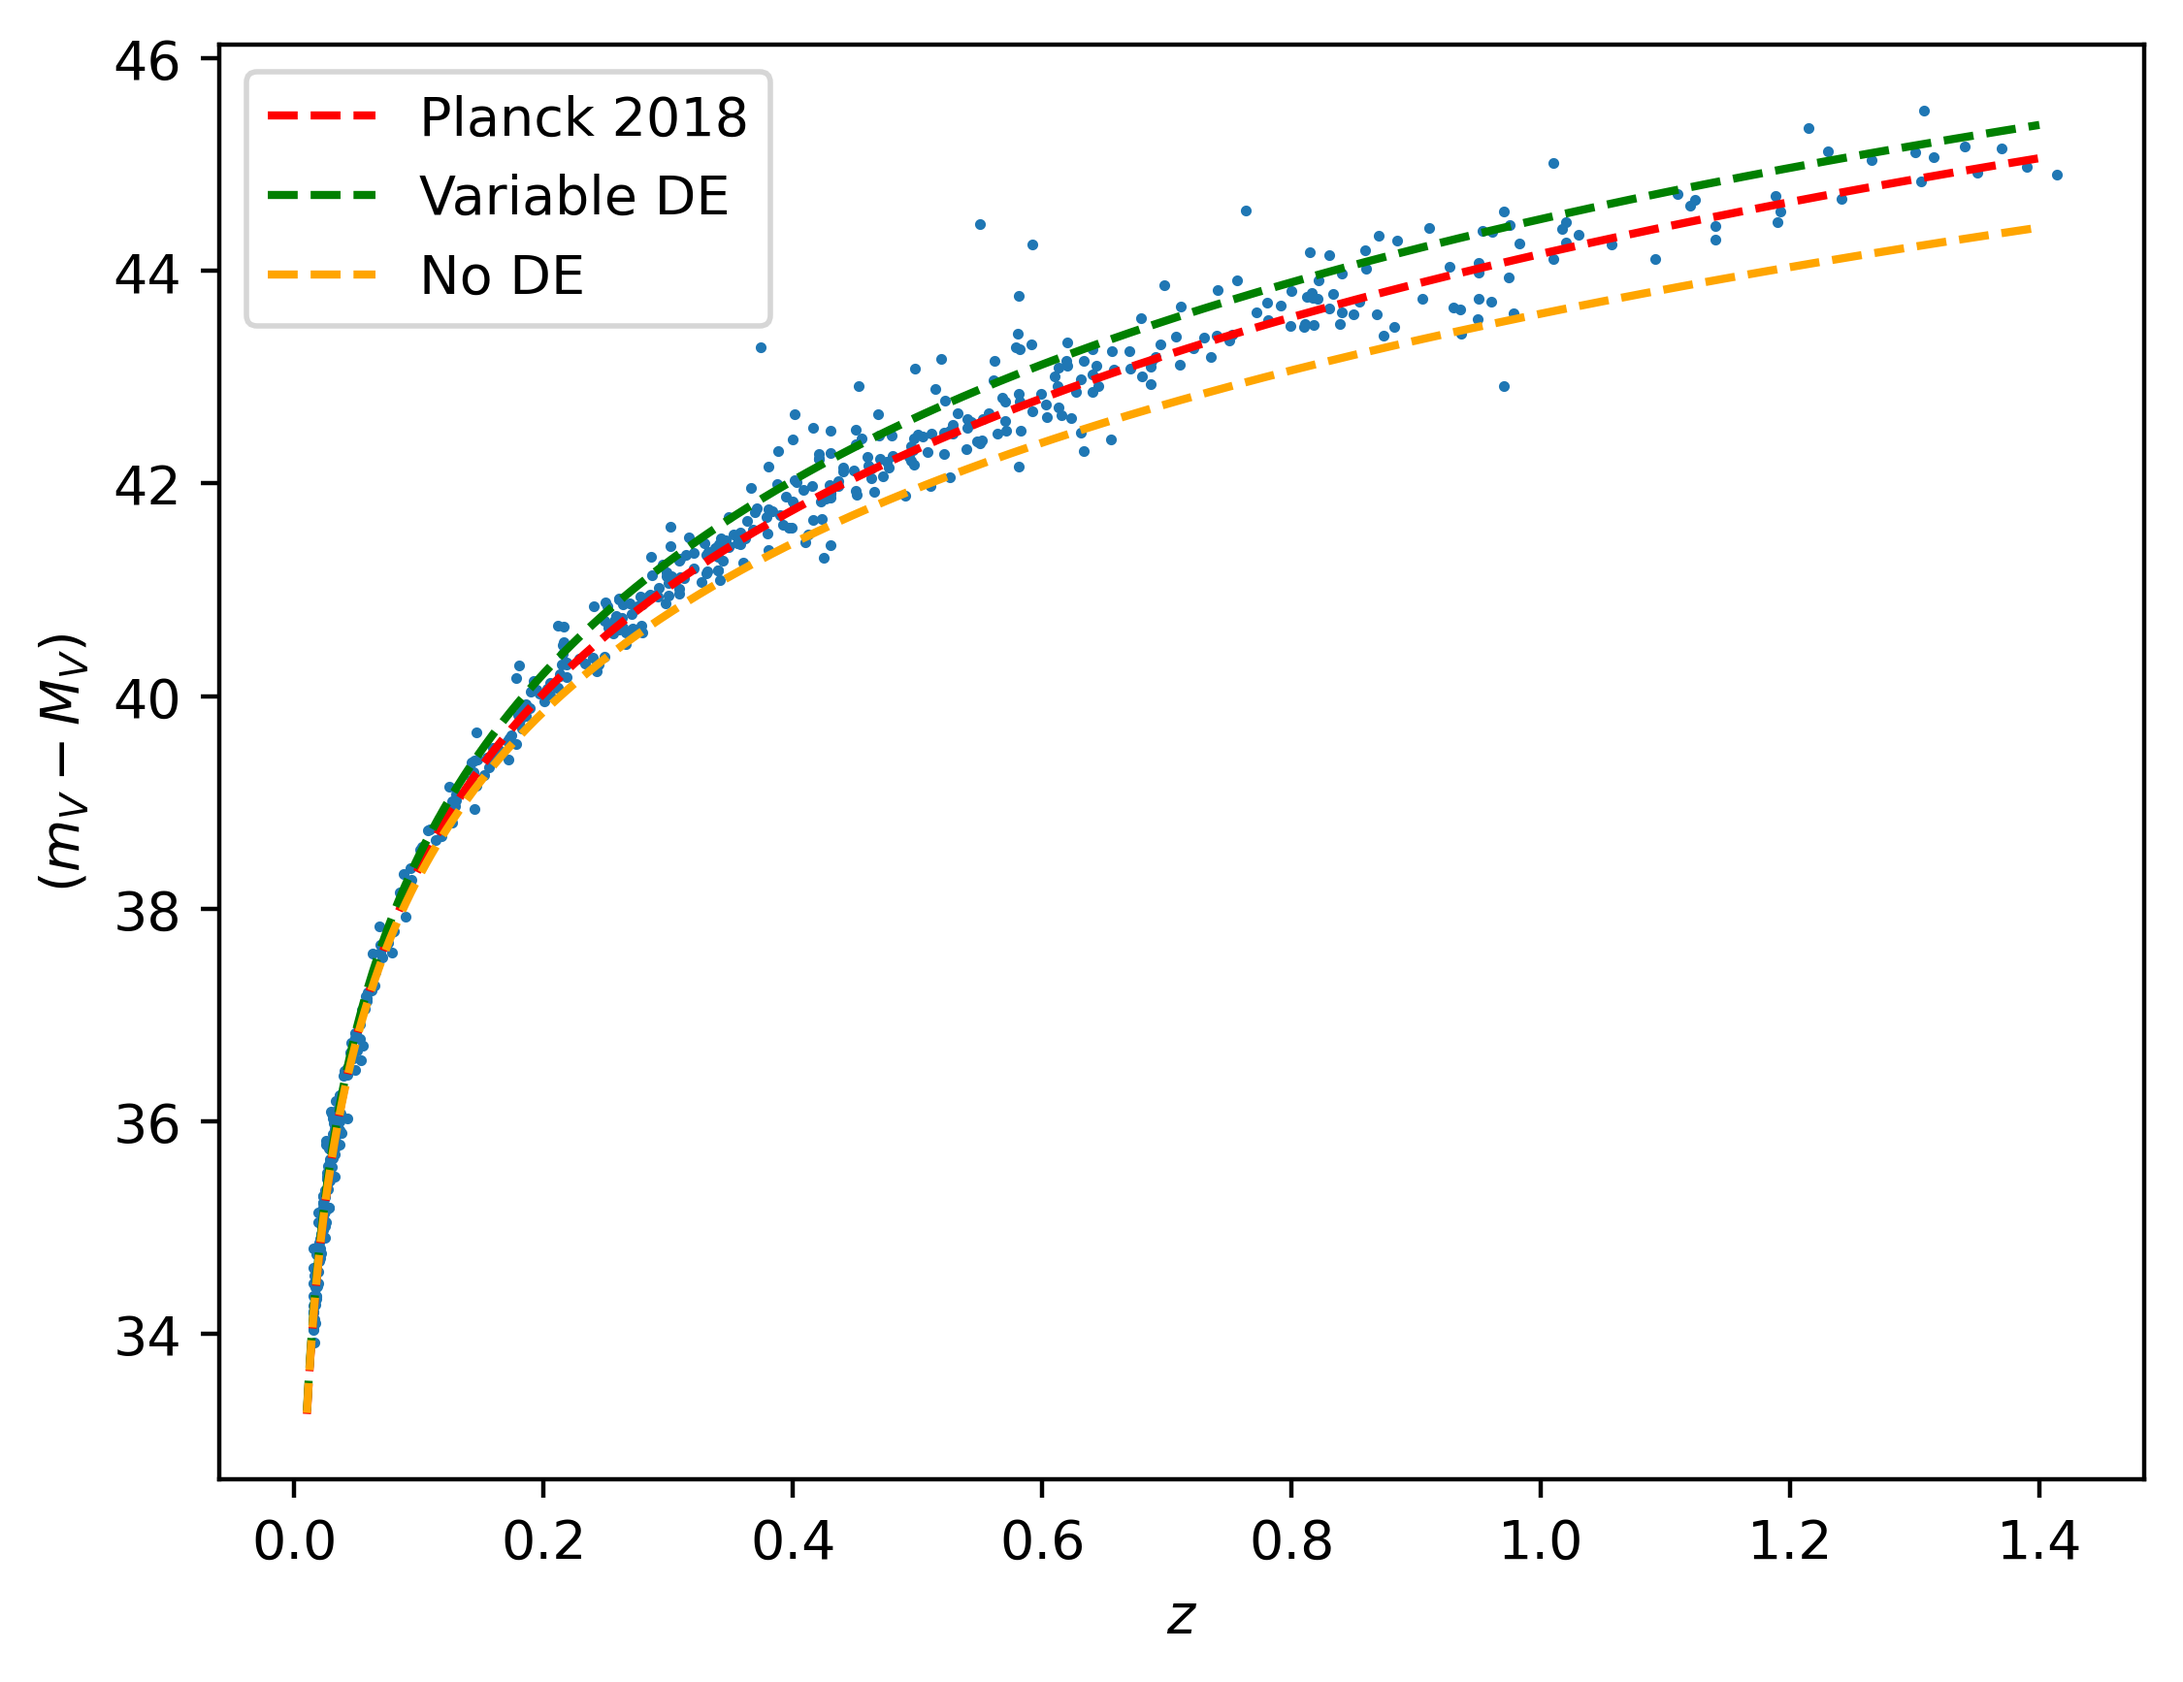
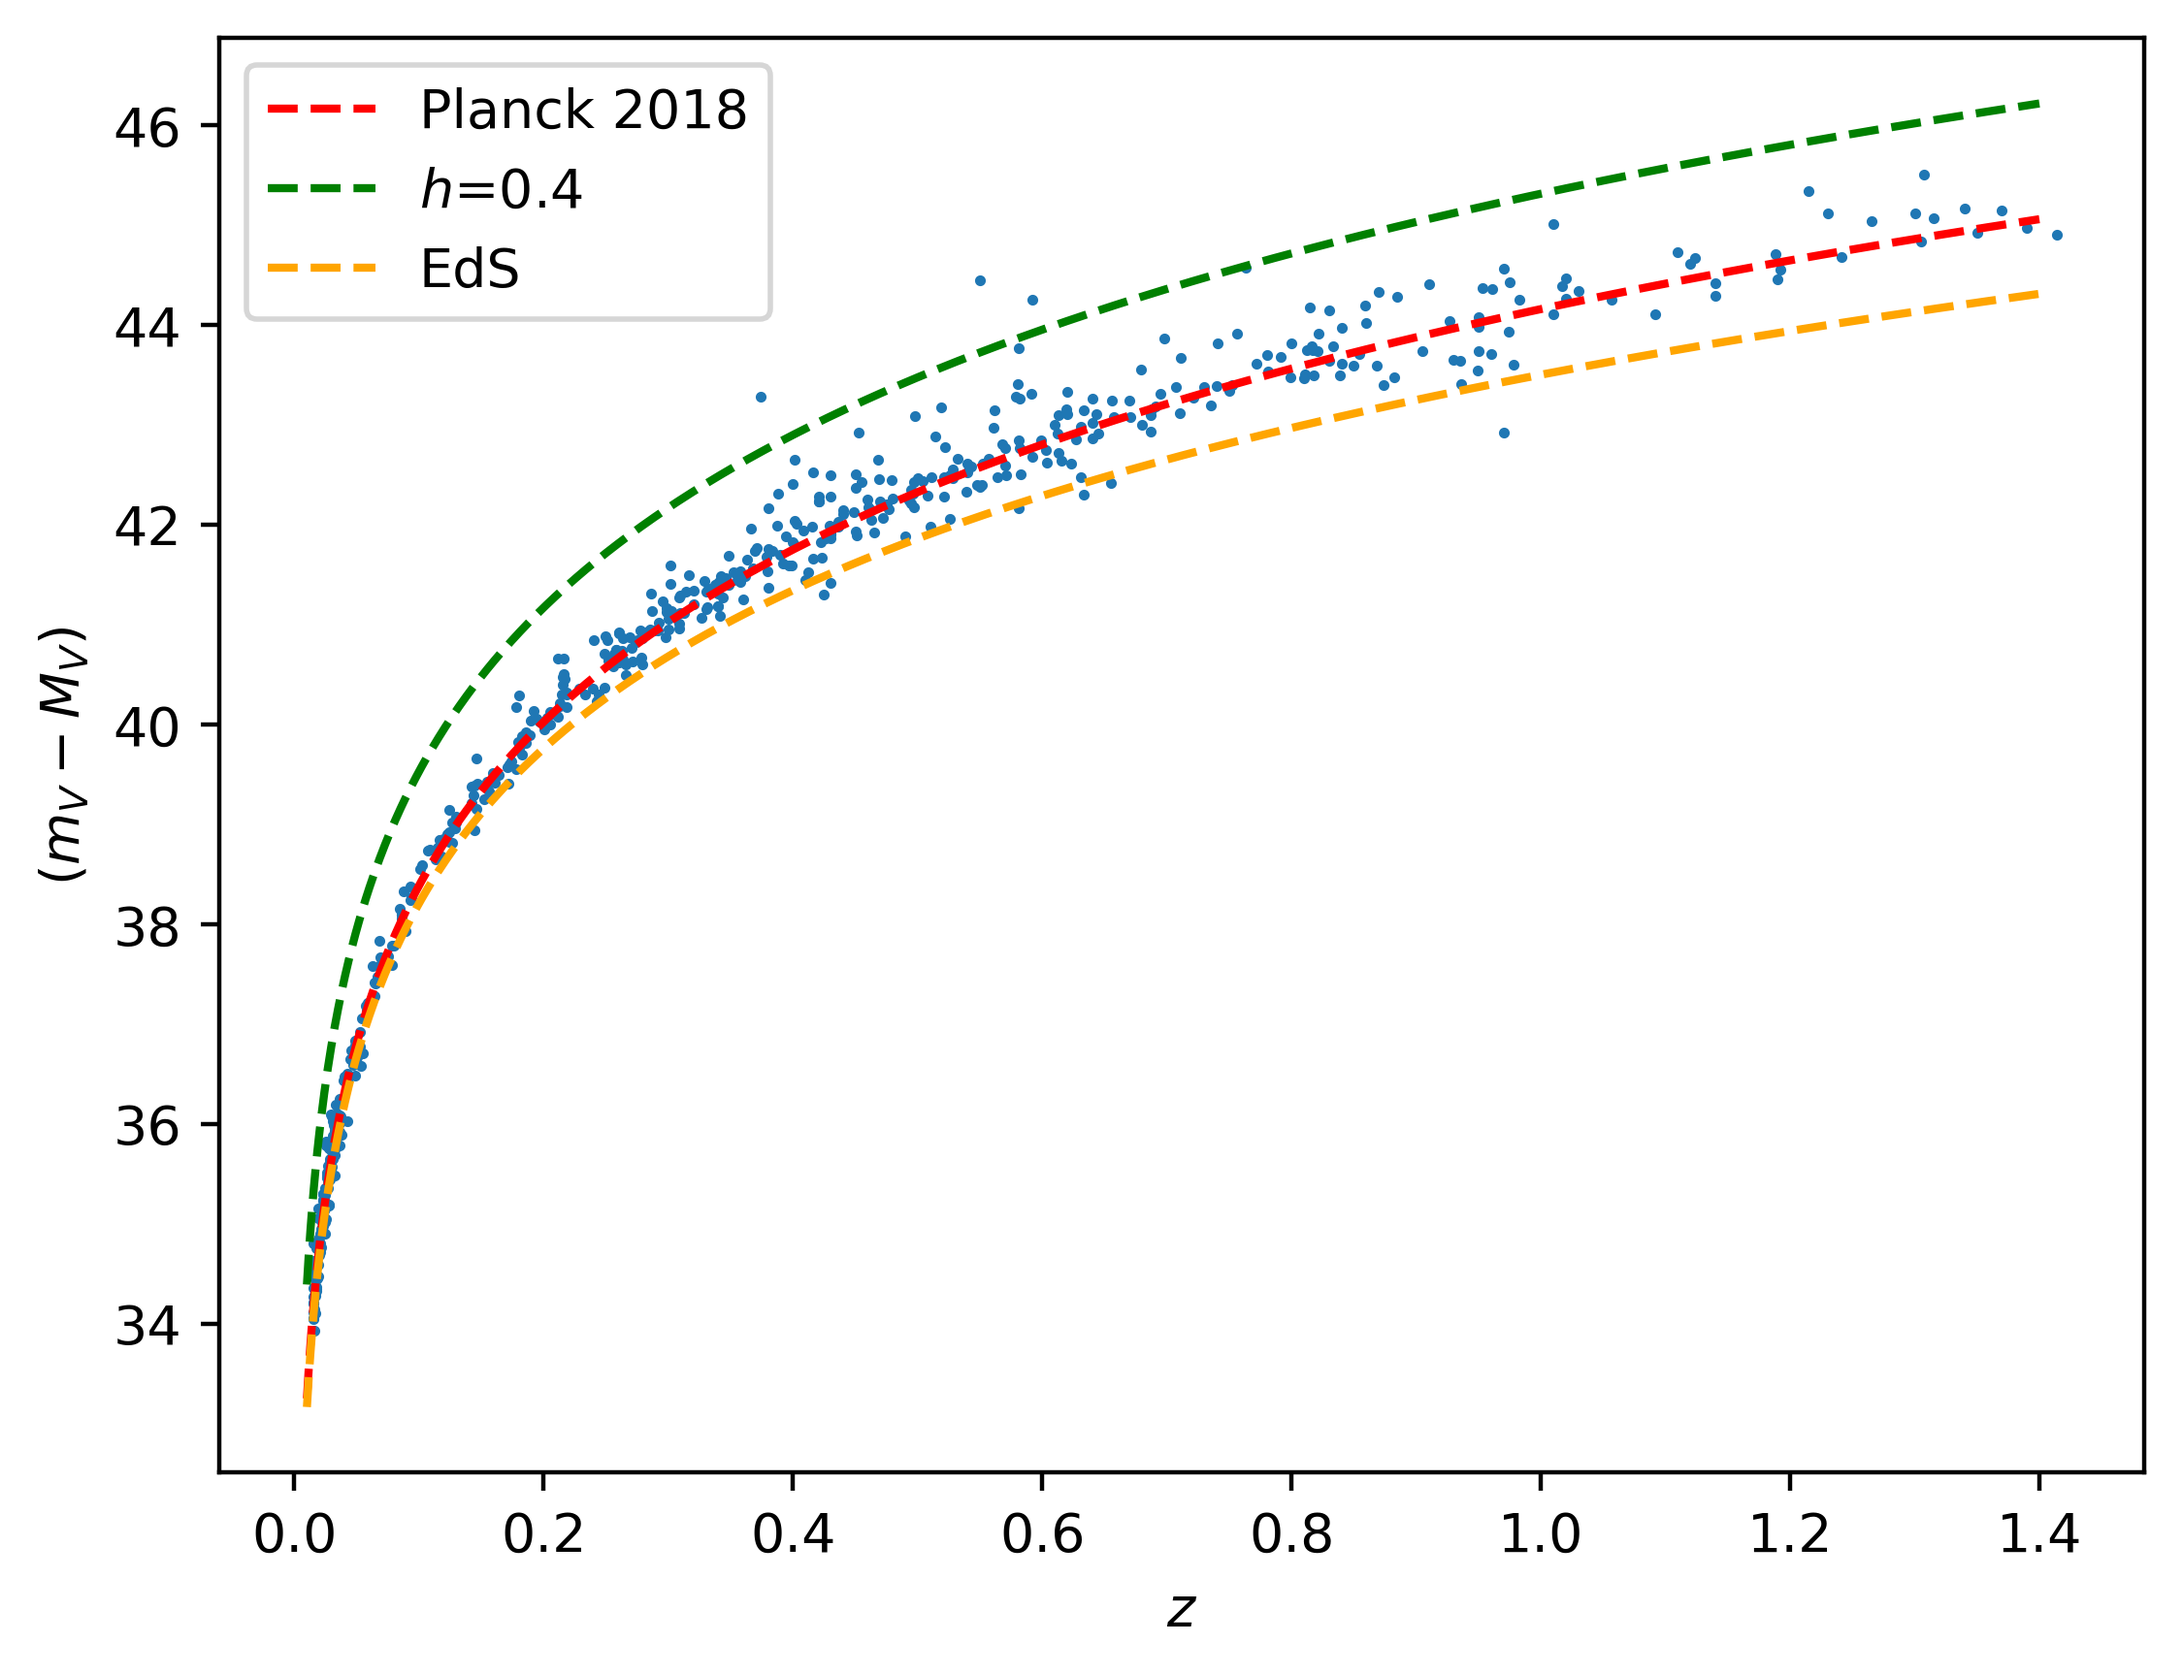
Changed comsological models for SNe part

diff --git a/DMDE5.py b/DMDE5.py
@@ -6,7 +6,7 @@ import matplotlib.pyplot as plt
 from astropy.cosmology import Planck18_arXiv_v2 as P18
 from astropy.cosmology import FlatwCDM
 from astropy.cosmology import w0wzCDM
-from astropy.cosmology import wCDM
+from astropy.cosmology import FlatwCDM
 import pandas as pd
 
 '''
@@ -53,8 +53,8 @@ c) Explain what you see in your plot
 z2=np.linspace(1e-2,1.4,1000)
 #Set a comsology and then use cosmo.distmod(z)
 #Planck18
-variable=w0wzCDM(H0=67,Om0=0.3,Ode0=0.7, w0=-0.9, wz=0.5)
-node=FlatwCDM(H0=67,Om0=1.0)
+EdS=FlatwCDM(H0=70,Om0=1.0,w0=0.0)
+h04=FlatwCDM(H0=40,Om0=0.3, w0=-1)
 #print(node.Ode0)
 
 plt.figure(11)
@@ -70,8 +70,8 @@ plt.savefig('plots/fig11.png',dpi=400,bbox_inches='tight')
 plt.figure(0)
 plt.scatter(z,distmod,s=1)
 plt.plot(z2,P18.distmod(z2),'--',color='red',label='Planck 2018')
-plt.plot(z2,variable.distmod(z2),'--',color="green",label="Variable DE")
-plt.plot(z2,node.distmod(z2),'--',color="orange",label="No DE")
+plt.plot(z2,h04.distmod(z2),'--',color="green",label="$h$=0.4")
+plt.plot(z2,EdS.distmod(z2),'--',color="orange",label="EdS")
 plt.xlabel('$z$')
 plt.ylabel('$(m_V - M_V)$')
 plt.legend()
@@ -342,7 +342,7 @@ for x in lines11:
     TE11.append(float(x.split()[3]))
 file11.close()
 
-plt.figure(11)
+plt.figure(12)
 plt.plot(l,TT,label='$h=0.70$(default)')
 plt.plot(l8,TT8,label='$h=0.45$')
 plt.plot(l9,TT9,label='$h=0.95$')
@@ -351,7 +351,7 @@ plt.ylabel('$l(l+1)C_l^{TT} /2\pi$ $[\mu K^2]$')
 plt.legend()
 plt.savefig('plots/fig12.png',dpi=400,bbox_inches='tight')
 
-plt.figure(12)
+plt.figure(13)
 plt.plot(l,EE,label='$h=0.70$(default)')
 plt.plot(l8,EE8,label='$h=0.45$')
 plt.plot(l9,EE9,label='$h=0.95$')
@@ -360,7 +360,7 @@ plt.ylabel('$l(l+1)C_l^{EE} /2\pi$ $[\mu K^2]$')
 plt.legend()
 plt.savefig('plots/fig13.png',dpi=400,bbox_inches='tight')
 
-plt.figure(13)
+plt.figure(14)
 plt.plot(l,TE,label='$h=0.70$(default)')
 plt.plot(l5,TE5,label='$h=0.45$')
 plt.plot(l6,TE6,label='$h=0.95$')
@@ -369,7 +369,7 @@ plt.ylabel('$l(l+1)C_l^{TE} /2\pi$ $[\mu K^2]$')
 plt.legend()
 plt.savefig('plots/fig14.png',dpi=400,bbox_inches='tight')
 
-plt.figure(14)
+plt.figure(15)
 plt.plot(l,TT,label='$h=0.70$(default)')
 plt.plot(l8,TT8,label='$h=0.45$')
 plt.plot(l9,TT9,label='$h=0.95$')
@@ -380,7 +380,7 @@ plt.ylabel('$l(l+1)C_l^{TT} /2\pi$ $[\mu K^2]$')
 plt.legend()
 plt.savefig('plots/fig15.png',dpi=400,bbox_inches='tight')
 
-plt.figure(15)
+plt.figure(16)
 plt.plot(l,EE,label='$h=0.70$(default)')
 plt.plot(l8,EE8,label='$h=0.45$')
 plt.plot(l9,EE9,label='$h=0.95$')
@@ -391,7 +391,7 @@ plt.ylabel('$l(l+1)C_l^{EE} /2\pi$ $[\mu K^2]$')
 plt.legend()
 plt.savefig('plots/fig16.png',dpi=400,bbox_inches='tight')
 
-plt.figure(16)
+plt.figure(17)
 plt.plot(l,TE,label='$h=0.70$(default)')
 plt.plot(l5,TE5,label='$h=0.45$')
 plt.plot(l6,TE6,label='$h=0.95$')
